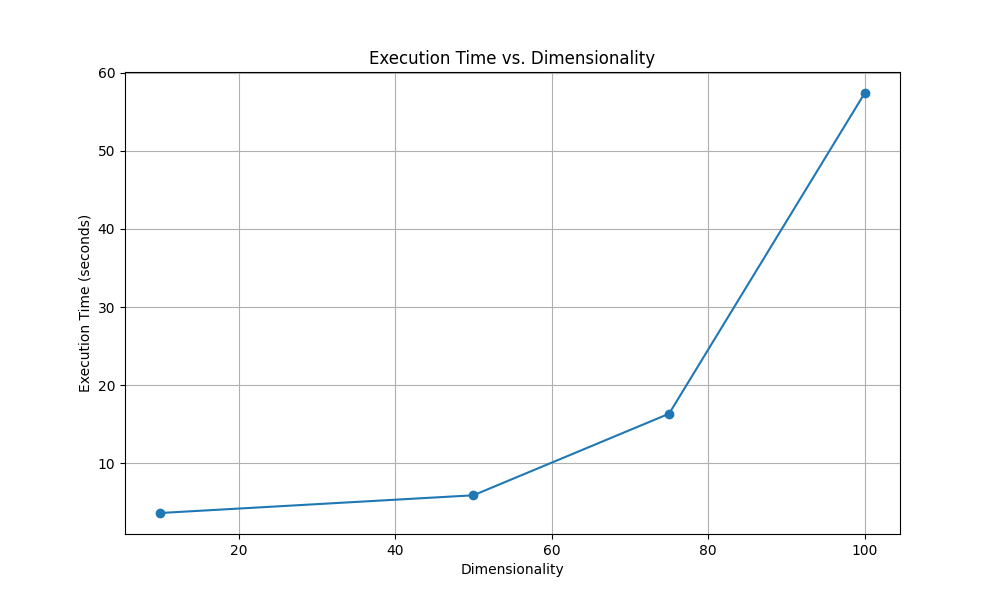
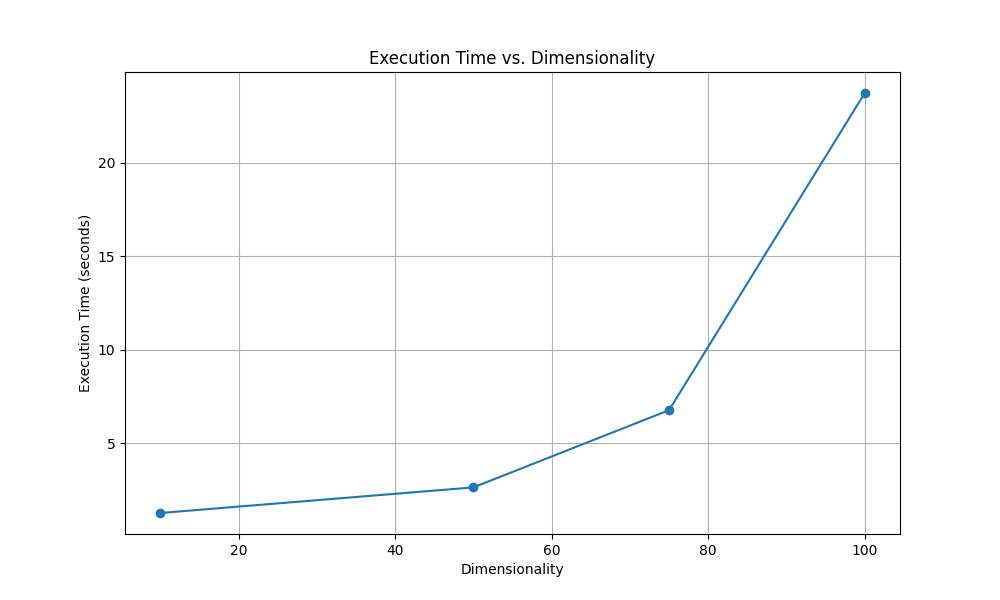
feature: added obj 2 on pi-gwo

diff --git a/pi-gwo/main.py b/pi-gwo/main.py
@@ -150,23 +150,47 @@ def improve_position(position, updt_position, min_values, max_values, target_fun
 ############################################################################
 
 # Function: Optimize Segment
-def optimize_segment(start, end, alpha, beta, delta, position, iterations, min_values, max_values, target_function, verbose, target_value):
+def optimize_segment(start, end, alpha, beta, delta, position, iterations, min_values, max_values, target_function, verbose, target_value, w, threshold, fitness_history, moving_average_list):
     local_alpha, local_beta, local_delta = alpha, beta, delta
     local_position = np.copy(position)
-    for count in range(start, end):
+    count = start
+    while count < end:
         if verbose:
             print('Iteration = ', count, ' f(x) = ', local_alpha[-1])
+           
+        fitness_history.append(local_alpha[-1])
+        moving_average = 0
+        
+        if len(fitness_history) >= w:
+            moving_average = sum(fitness_history[-w:]) / w * 2
+            moving_average_list.append(moving_average)
+            print(f"Moving average: {moving_average}")
+            
         a_linear_component = 2 - count * (2 / iterations)
         local_alpha, local_beta, local_delta = update_pack(local_position, local_alpha, local_beta, local_delta)
         updt_position = update_position(local_position, local_alpha, local_beta, local_delta, a_linear_component, min_values, max_values, target_function)
         local_position = improve_position(local_position, updt_position, min_values, max_values, target_function)
         if target_value is not None and local_alpha[-1] <= target_value:
             break
+        
+        # check if the moving_average is same from the previous one
+        if moving_average_list and moving_average_list[-1] == moving_average:
+            count += threshold
+        else:
+            count += 1
+        
     return local_alpha
 
 # Function: iGWO
 def improved_grey_wolf_optimizer(initialize_random=False, pack_size = 25, min_values = [-100,-100], max_values = [100,100], iterations = 500, target_function = target_function, verbose = True, start_init = None, target_value = None):   
     alpha, beta, delta = None, None, None
+    
+    # computation of the moving average
+    w = 5
+    threshold = 3
+    fitness_history = []
+    moving_average_list = []
+    
     if initialize_random: 
         alpha = random_alpha_position(min_values, max_values, target_function)
         
@@ -199,7 +223,7 @@ def improved_grey_wolf_optimizer(initialize_random=False, pack_size = 25, min_va
         results = [
             pool.apply_async(
                 optimize_segment,
-                args=(i * segment_size, (i + 1) * segment_size, alpha, beta, delta, position, iterations, min_values, max_values, target_function, verbose, target_value)
+                args=(i * segment_size, (i + 1) * segment_size, alpha, beta, delta, position, iterations, min_values, max_values, target_function, verbose, target_value, w, threshold, fitness_history, moving_average_list)
             ) for i in range(num_processes)
         ]
         pool.close()
@@ -209,7 +233,7 @@ def improved_grey_wolf_optimizer(initialize_random=False, pack_size = 25, min_va
         best_solution = min(solutions, key=lambda x: x[-1])
     else:
         # Run the optimizer in a single process
-        best_solution = optimize_segment(0, iterations, alpha, beta, delta, position, iterations, min_values, max_values, target_function, verbose, target_value)
+        best_solution = optimize_segment(0, iterations, alpha, beta, delta, position, iterations, min_values, max_values, target_function, verbose, target_value, w, threshold, fitness_history, moving_average_list)
 
     return best_solution
 
